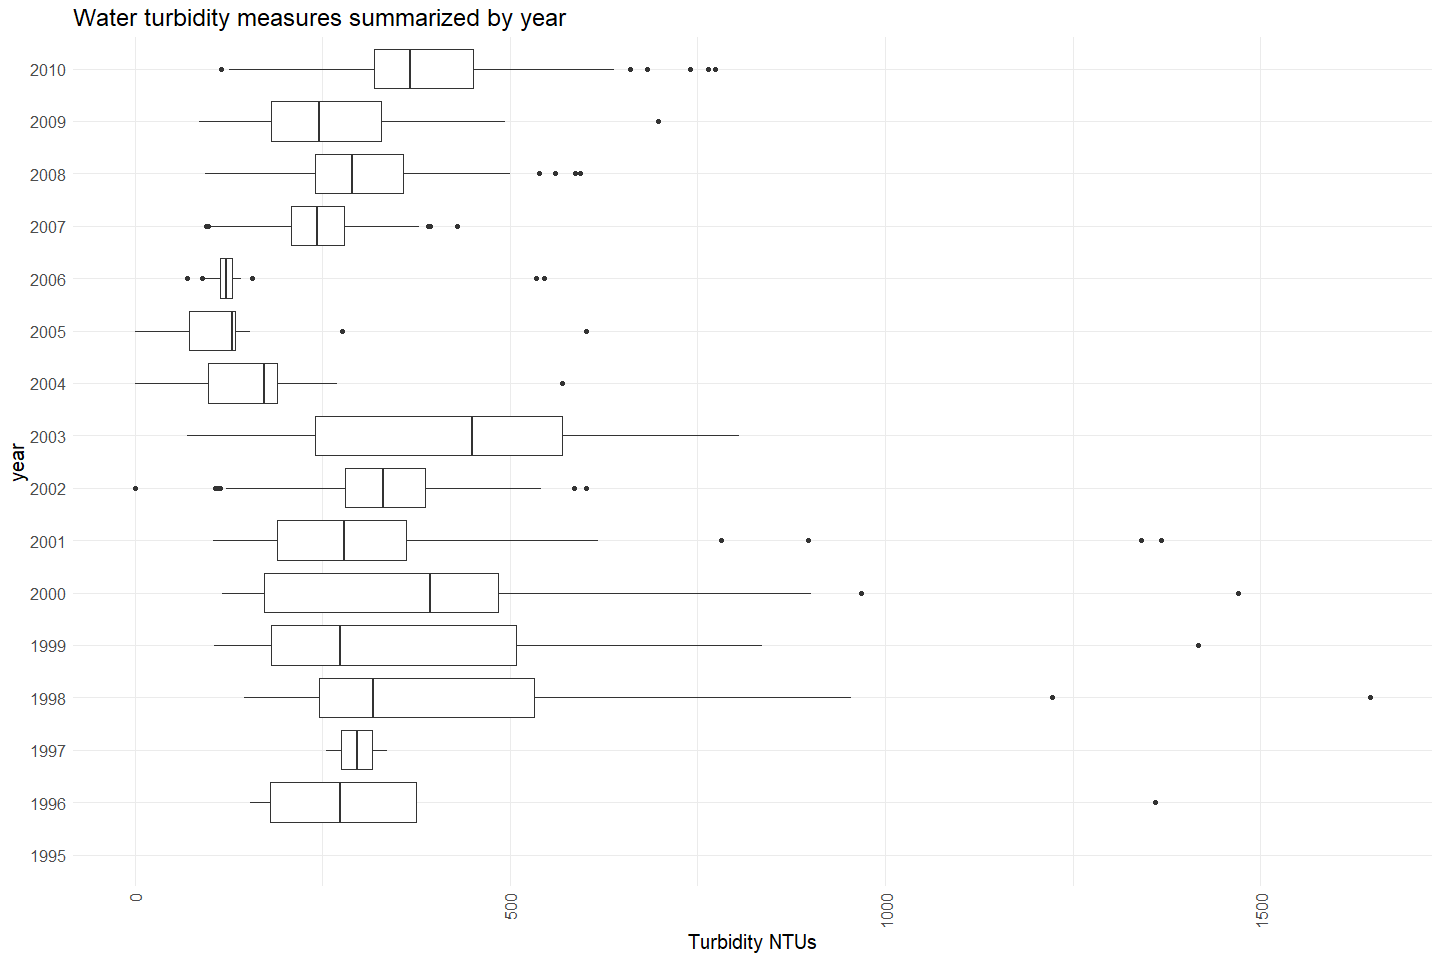
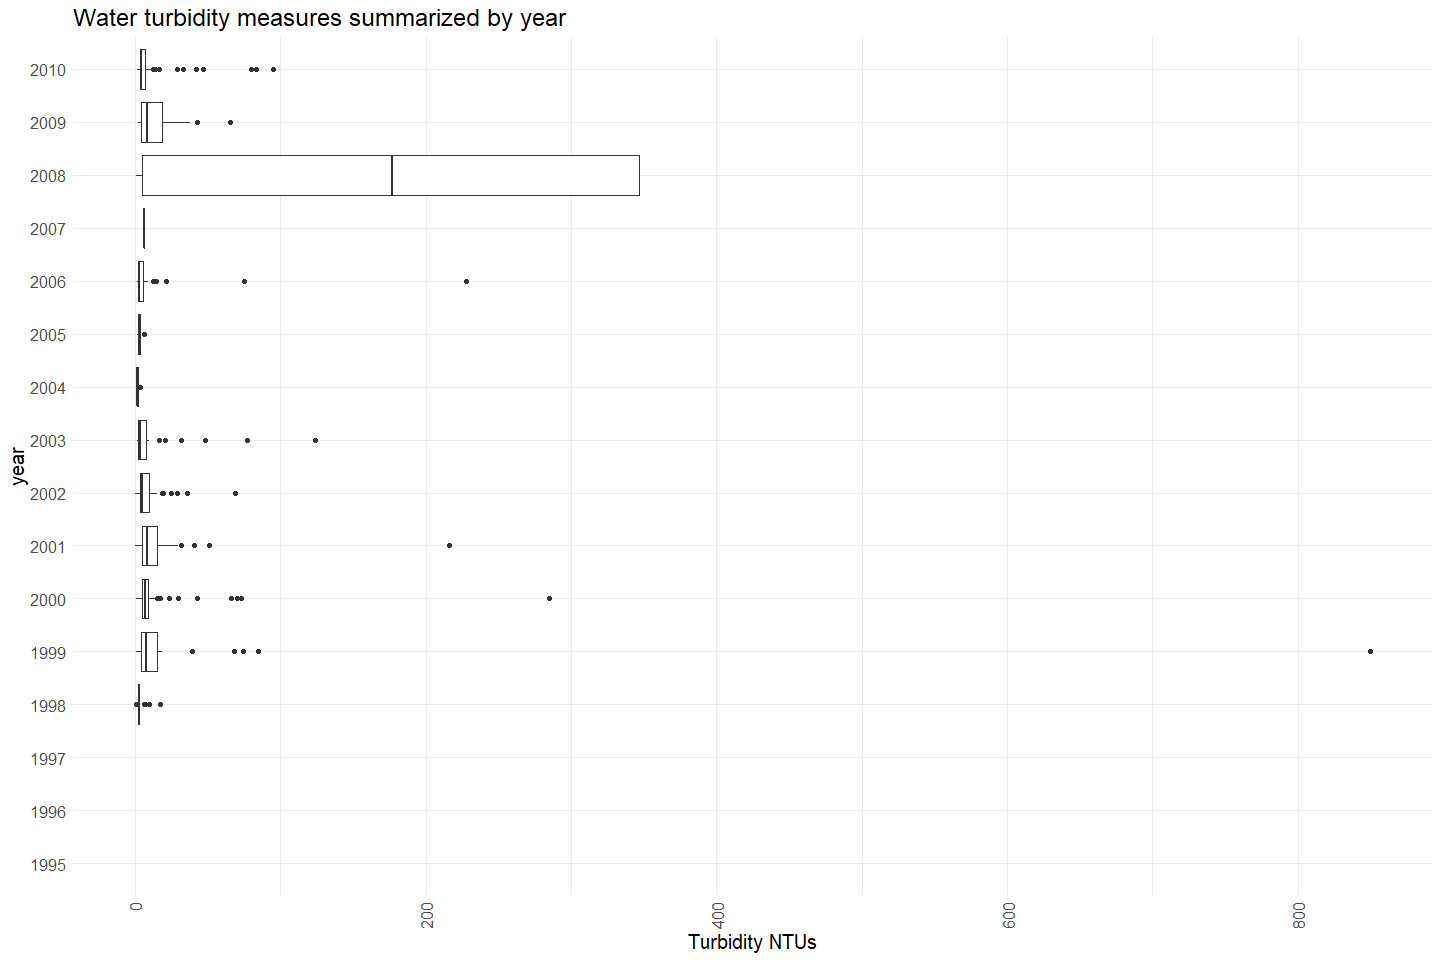
Fixes turbidity boxplot

diff --git a/scripts/rst/mill-creek/mill_creek_rst_qc.md b/scripts/rst/mill-creek/mill_creek_rst_qc.md
@@ -471,7 +471,7 @@ cleaner_rst_data %>%
 ``` r
 cleaner_rst_data %>%  
   mutate(year = as.factor(year(date))) %>%
-  ggplot(aes(x = flow, y = year)) + 
+  ggplot(aes(x = turbidity, y = year)) + 
   geom_boxplot() + 
   theme_minimal() +
   labs(title = "Water turbidity measures summarized by year",
@@ -482,8 +482,8 @@ cleaner_rst_data %>%
 
 ![](mill_creek_rst_qc_files/figure-gfm/unnamed-chunk-24-1.png)<!-- -->
 
--   High turbidity stream, Still seems like there must be some outliers
-    in here
+2008 seems like something weird is going on. Some high turbidity values
+throughout the years.
 
 **Numeric Summary of turbidity over Period of Record**
 
